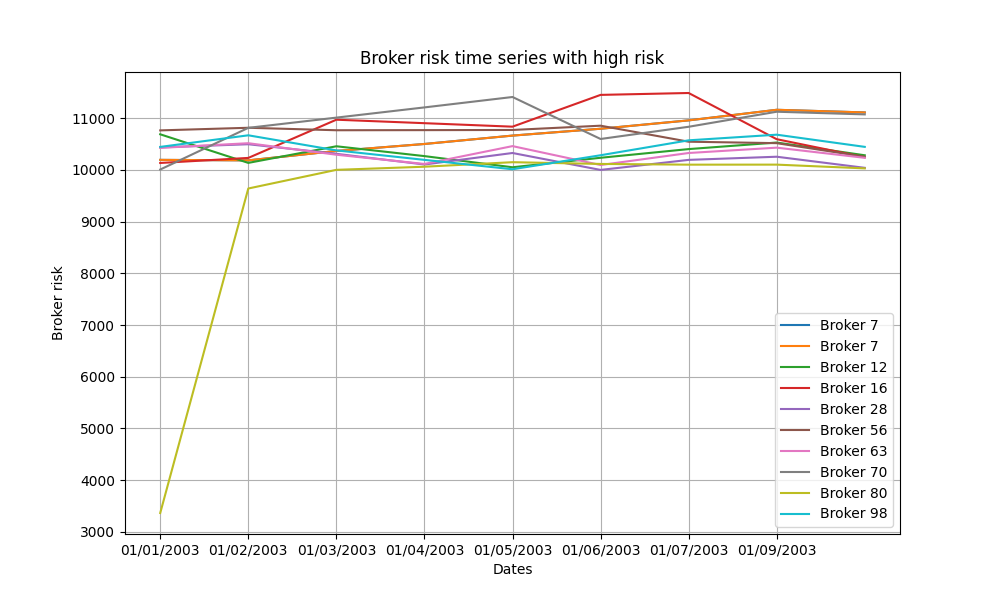
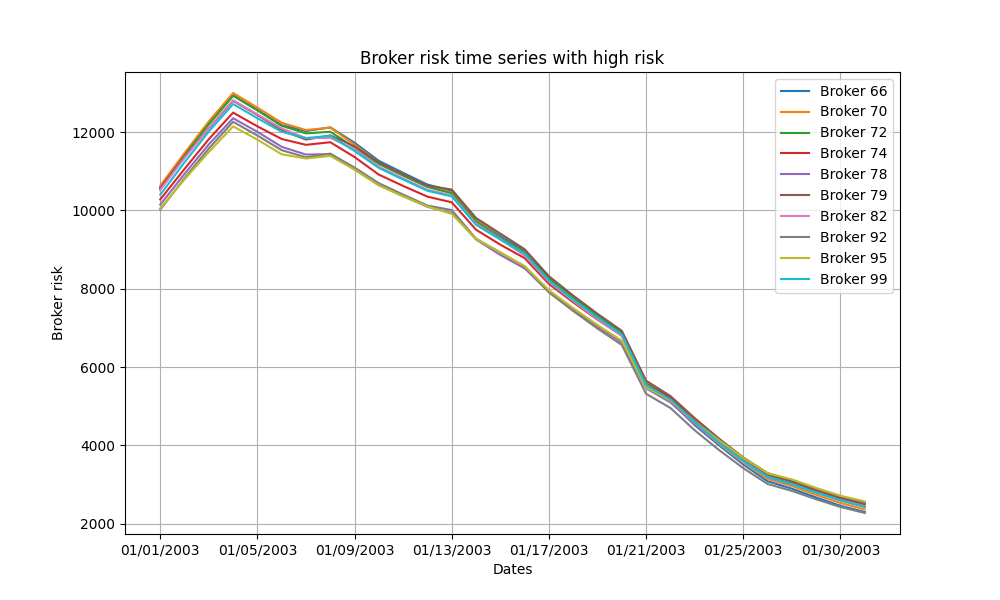
fix shuffling

diff --git a/Code/simulation.py b/Code/simulation.py
@@ -18,11 +18,11 @@ from stock import Stock
 # Parameters for simulation - using 10000 as the normalizing value for risk percentile
 
 N = 100  # number of brokers
-neighbor_influence = 0.03  # initial percent of risk assessment provided by each neighbor
+neighbor_influence = 0.06  # initial percent of risk assessment provided by each neighbor
 adjust_influence = True
 use_influence_only = True
 seed_money = 1_000_000
-stop_at_stable = False
+stop_at_stable = True
 trials = 1  # not really using this since just doing a single run currently since its such a long runtime
 start = "01/01/2003"  # date to start simulation
 end = "12/31/2012"  # date to stop simulation
@@ -101,12 +101,26 @@ for trial in range(trials):
     brokers = [Broker(i, seed_money, (i+1)/N*9999, neighbor_influence, adjust_influence, stop_at_stable=stop_at_stable) for i in range(N)]
     # version with limited risk types to focus on influence
     if use_influence_only:
-        brokers = [Broker(i, seed_money, random.sample([500,5000,9999],1)[0], neighbor_influence, adjust_influence, stop_at_stable=stop_at_stable) for i in range(N)]
+        def choose_risk(id):
+            if id < 33:
+                return 300
+            elif id < 66:
+                return 5000
+            else:
+                return 9999
+        brokers = [Broker(i, seed_money, choose_risk(i), neighbor_influence, adjust_influence, stop_at_stable=stop_at_stable) for i in range(N)]
 
     # @INFLUENCE THIS BLOCK ADDRESSES THE NEIGHBOR WEIGHTING AND SETUP
     # Generate the number of friends per person with power distribution and populate those friend relationships
     # with a normal distribution of the available brokers in both the Broker class and the network visualization
-    friend_count_dist = np.floor(np.array(powerlaw.Power_Law(xmin=1, parameters=[3.0]).generate_random(N)) + 2)
+    friend_count_dist = np.floor(np.array(powerlaw.Power_Law(xmin=2, parameters=[2.7]).generate_random(N)))
+    if use_influence_only:
+        friend_count_dist.sort()
+        # sort distribution
+        list1 = [friend_count_dist[i*3] for i in range(len(friend_count_dist)//3)]
+        list2 = [friend_count_dist[i*3+1] for i in range(len(friend_count_dist)//3)]
+        list3 = [friend_count_dist[i*3+2] for i in range(len(friend_count_dist)//3)]
+        friend_count_dist = [*list1, *list2, *list3, friend_count_dist[len(friend_count_dist)-1]]
     broker_network = nx.DiGraph()
     broker_network.add_nodes_from([node.id for node in brokers])
     for i in range(N):
@@ -127,7 +141,6 @@ for trial in range(trials):
 
     start_date, end_date = datetime.strptime(start, "%m/%d/%Y"),  datetime.strptime(end, "%m/%d/%Y")
 
-    random.shuffle(brokers)
     available_stocks = set()
 
     # iterate through all stocks in dataframe and add ones that exist at this time to the available set
@@ -151,12 +164,13 @@ for trial in range(trials):
 
     date = start_date
     curr_time = time()
+    broker_ids = [b.id for b in brokers]
     while date < end_date:
         print(date.strftime("%m/%d/%Y"), f'-------{time()-curr_time}-------------------------------------')
         curr_time = time()
         dates.append(date.strftime('%m/%d/%Y'))
 
-        random.shuffle(brokers)
+        random.shuffle(broker_ids)
         available_stocks = set()
 
         # iterate through all stocks in dataframe and add ones that exist at this time to the available set
@@ -167,9 +181,9 @@ for trial in range(trials):
 
         if len(available_stocks):
             prev = time()
-            for i, broker in enumerate(brokers):
+            for i, bid in enumerate(broker_ids):
                 # broker.money += 1_000
-                broker.update(broker_network, available_stocks, brokers, stocks, date.strftime("%m/%d/%Y"))
+                brokers[bid].update(broker_network, available_stocks, brokers, stocks, date.strftime("%m/%d/%Y"))
                 prev = time()
 
         # add dividend
@@ -266,46 +280,32 @@ for trial in range(trials):
                    'Dates', 'Broker liquid money', 'Broker liquid money time series', f'moneySeriesJoint3.png')
 
     else:
-        random_ids = list()
-        while len(random_ids) < 10:
-            sampled_broker = random.sample(brokers, 1)[0]
-            if sampled_broker.preferred_risk_minimum == 500:
-                random_ids.append(sampled_broker.id)
-        random_ids = sorted(random_ids)
-        plot_times(dates, [broker_statuses[b] for b in random_ids], [f'Broker {i}' for i in random_ids],
+        # brokers.sort(key=lambda b:b.id)
+        random_ids = sorted(random.sample(brokers[:len(brokers)//3], 10), key=lambda b: b.id)
+        plot_times(dates, [broker_statuses[b.id] for b in random_ids], [f'Broker {i.id}' for i in random_ids],
                    'Dates', 'Broker wealth', 'Broker wealth (including portfolio and cash) time series with low risk',
                    f'timeSeriesJoint2_setRiskLow.png')
-        plot_times(dates, [broker_risks[b] for b in random_ids], [f'Broker {i}' for i in random_ids],
+        plot_times(dates, [broker_risks[b.id] for b in random_ids], [f'Broker {i.id}' for i in random_ids],
                    'Dates', 'Broker risk', 'Broker risk time series with low risk', f'riskSeriesJoint2_setRiskLow.png')
-        plot_times(dates, [money_series[b] for b in random_ids], [f'Broker {i}' for i in random_ids],
+        plot_times(dates, [money_series[b.id] for b in random_ids], [f'Broker {i.id}' for i in random_ids],
                    'Dates', 'Broker liquid money', 'Broker liquid money time series with low risk', f'moneySeriesJoint2_setRiskLow.png')
 
-        random_ids = list()
-        while len(random_ids) < 10:
-            sampled_broker = random.sample(brokers, 1)[0]
-            if sampled_broker.preferred_risk_minimum == 5000:
-                random_ids.append(sampled_broker.id)
-        random_ids = sorted(random_ids)
-        plot_times(dates, [broker_statuses[b] for b in random_ids], [f'Broker {i}' for i in random_ids],
+        random_ids = sorted(random.sample(brokers[len(brokers)//3:len(brokers)//3*2], 10), key=lambda b: b.id)
+        plot_times(dates, [broker_statuses[b.id] for b in random_ids], [f'Broker {i.id}' for i in random_ids],
                    'Dates', 'Broker wealth', 'Broker wealth (including portfolio and cash) time series with medium risk',
                    f'timeSeriesJoint2_setRiskMed.png')
-        plot_times(dates, [broker_risks[b] for b in random_ids], [f'Broker {i}' for i in random_ids],
+        plot_times(dates, [broker_risks[b.id] for b in random_ids], [f'Broker {i.id}' for i in random_ids],
                    'Dates', 'Broker risk', 'Broker risk time series with medium risk', f'riskSeriesJoint2_setRiskMed.png')
-        plot_times(dates, [money_series[b] for b in random_ids], [f'Broker {i}' for i in random_ids],
+        plot_times(dates, [money_series[b.id] for b in random_ids], [f'Broker {i.id}' for i in random_ids],
                    'Dates', 'Broker liquid money', 'Broker liquid money time series with medium risk', f'moneySeriesJoint2_setRiskMed.png')
 
-        random_ids = list()
-        while len(random_ids) < 10:
-            sampled_broker = random.sample(brokers, 1)[0]
-            if sampled_broker.preferred_risk_minimum == 9999:
-                random_ids.append(sampled_broker.id)
-        random_ids = sorted(random_ids)
-        plot_times(dates, [broker_statuses[b] for b in random_ids], [f'Broker {i}' for i in random_ids],
+        random_ids = sorted(random.sample(brokers[len(brokers)//3*2:], 10), key=lambda b: b.id)
+        plot_times(dates, [broker_statuses[b.id] for b in random_ids], [f'Broker {i.id}' for i in random_ids],
                    'Dates', 'Broker wealth', 'Broker wealth (including portfolio and cash) time series with high risk',
                    f'timeSeriesJoint2_setRiskHigh.png')
-        plot_times(dates, [broker_risks[b] for b in random_ids], [f'Broker {i}' for i in random_ids],
+        plot_times(dates, [broker_risks[b.id] for b in random_ids], [f'Broker {i.id}' for i in random_ids],
                    'Dates', 'Broker risk', 'Broker risk time series with high risk', f'riskSeriesJoint2_setRiskHigh.png')
-        plot_times(dates, [money_series[b] for b in random_ids], [f'Broker {i}' for i in random_ids],
+        plot_times(dates, [money_series[b.id] for b in random_ids], [f'Broker {i.id}' for i in random_ids],
                    'Dates', 'Broker liquid money', 'Broker liquid money time series with high risk', f'moneySeriesJoint2_setRiskHigh.png')
 
     # plot portfolio risk to portfolio value
